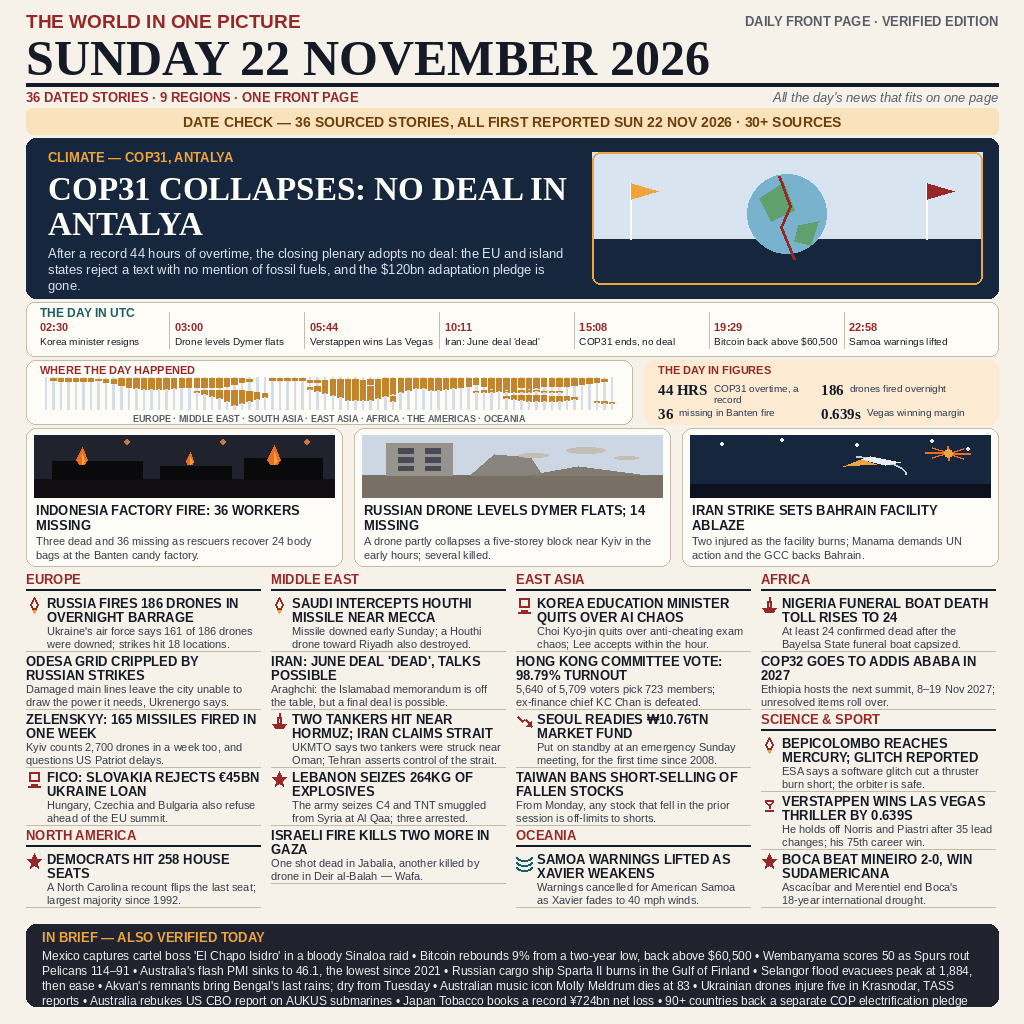
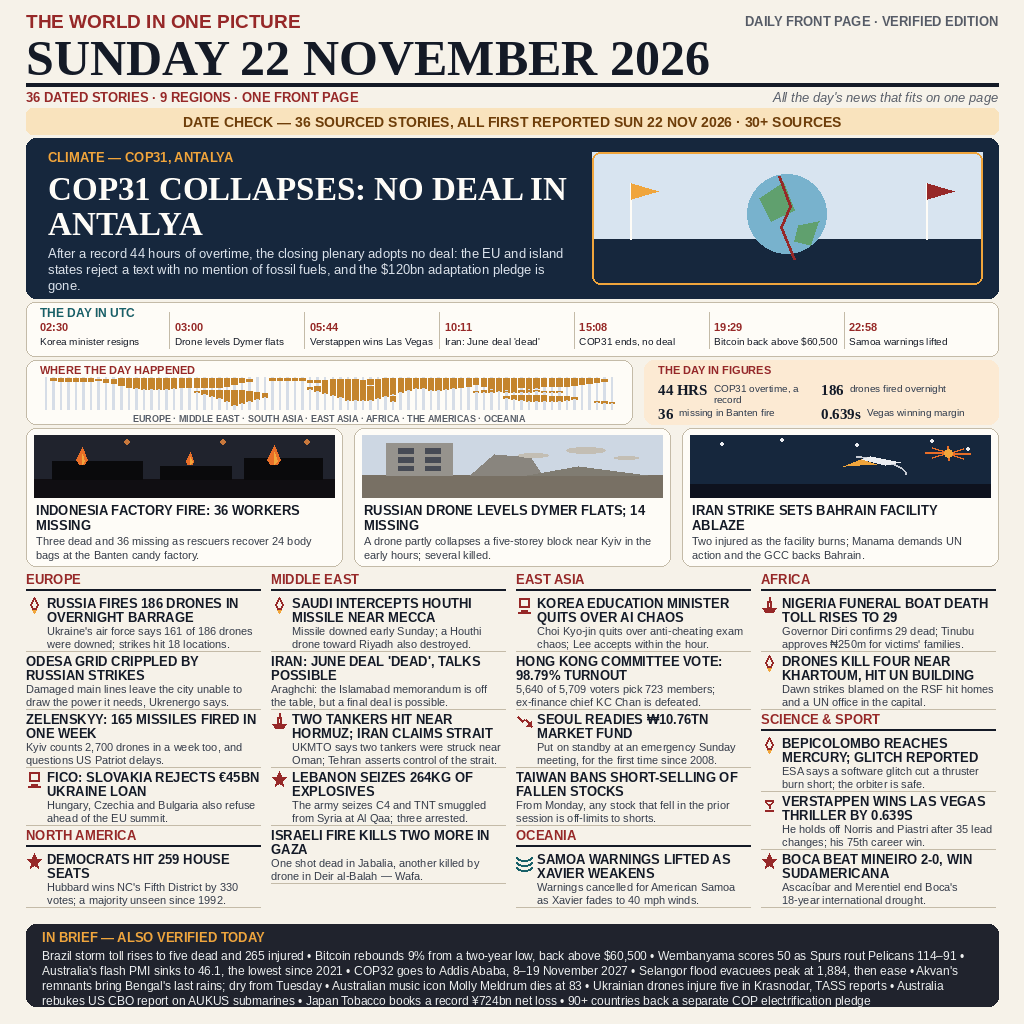
Correct Sunday tolls (Nigeria 29, Democrats 259), add Khartoum strike

Changed region(s): [[0.0312, 0.8438, 0.9375, 1.0], [0.75, 0.5938, 0.9688, 0.6875]]

diff --git a/README.md b/README.md
@@ -30,12 +30,14 @@ a day-in-figures box complete the page.
 - **Front page grid, by region:** Russia's 186-drone barrage and the crippled
   Odesa grid; Saudi Arabia intercepting a Houthi missile near Mecca; Iran
   declaring the June deal dead; Korea's AI-exam chaos; Nigeria's funeral-boat
-  toll rising to 24; BepiColombo at Mercury; Verstappen's 0.639-second win
-  in Las Vegas; Boca's Copa Sudamericana title.
+  toll rising to 29; drones killing four near Khartoum; BepiColombo at
+  Mercury; Verstappen's 0.639-second win in Las Vegas; Boca's Copa
+  Sudamericana title.
 - **The day in figures:** 44 hours of overtime, 186 drones, 36 missing
   workers, a 0.639-second winning margin.
-- **In brief:** Mexico's capture of 'El Chapo Isidro', bitcoin's 9% rebound,
-  Wembanyama's 50-point night, Japan Tobacco's record loss.
+- **In brief:** Brazil's storm toll rising to five, bitcoin's 9% rebound,
+  Wembanyama's 50-point night, Japan Tobacco's record loss, COP32's move to
+  Addis Ababa.
 
 Every scene on the page — the cracked globe, the factory fire, the collapsed
 block, the night strike — is drawn in code with flat shapes; no photograph
